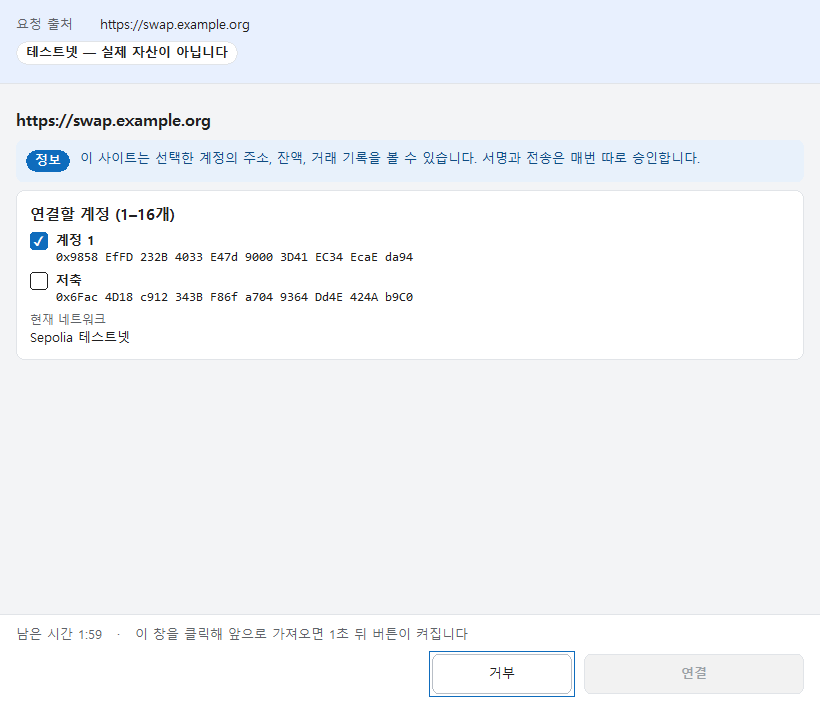
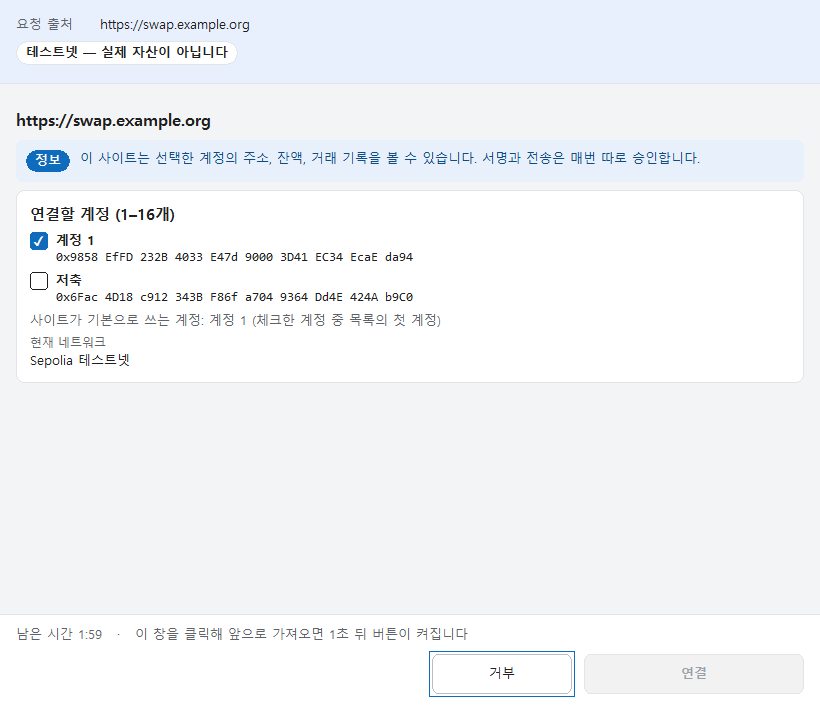
docs(ux): UX review 2026-11-08 and the screenshots of the changed screens
docs/ux-review-20261108.md merges the five persona reviews (47 proposals)
into 21 findings, lists what changed (before -> after) and what was left
with the reason and an alternative. The tour was re-run for the changed
screens only (01, 11, 13, 14, 17, 20, 23, 26-28, 30, 31, 34, 42, 44, 45,
50; new 35-yubikey-done) and their captions updated.

Changed region(s): [[0.0305, 0.4338, 0.5488, 0.5268]]

diff --git a/docs/screenshots/README.md b/docs/screenshots/README.md
@@ -1,6 +1,6 @@
-# 화면 투어 (2026-10-31 처음, 2026-11-07 UX 검토 반영 후 바뀐 장면을 다시 찍음)
+# 화면 투어 (2026-10-31 처음, 2026-11-08 UX 검토 반영 후 바뀐 장면을 다시 찍음)
 
-완성된 지갑의 주요 화면과 창입니다. `scripts/screenshot-tour.ps1`이 만듭니다(spec/04 §11, 개발 전용). 바뀐 점과 이유는 [UX 검토 11-07](../ux-review-20261107.md)(이전: [10-31](../ux-review-20261031.md), [10-28](../ux-review-20261028.md))에 있습니다.
+완성된 지갑의 주요 화면과 창입니다. `scripts/screenshot-tour.ps1`이 만듭니다(spec/04 §11, 개발 전용). 바뀐 점과 이유는 [UX 검토 11-08](../ux-review-20261108.md)(이전: [11-07](../ux-review-20261107.md), [10-31](../ux-review-20261031.md), [10-28](../ux-review-20261028.md))에 있습니다.
 
 - 모든 값은 시험용입니다. 버리는 임시 데이터 폴더만 쓰고 실제 지갑 폴더(`%LOCALAPPDATA%\YourWallet`)는 건드리지 않았습니다.
 - 새 지갑 만들기 화면의 단어는 누구나 아는 BIP39 **공개 시험 벡터**(엔트로피 0, 24단어)이고, 메인 화면은 공개 시험 니모닉(`abandon` × 11 + `about`) 지갑입니다. 이 단어들로 만든 지갑에 실제 자산을 두면 안 됩니다.
@@ -14,11 +14,12 @@
 - 2026-11-05(YubiKey): 등록 마법사·YubiKey 지갑을 더한 뒤 첫 화면(01, 카드가 넷이 되어 넷째 카드는 화면 밖), 설정 탭 줄에 `YubiKey`가 생긴 17·23을 다시 찍고 새로 35–43을 찍었습니다. YubiKey 장면은 실제 카드·키 작업자 없이 투어가 공개 시험 니모닉(`abandon` × 11 + `about`)에서 직접 계산한 미리보기·기록이고, 일련번호 `12345678`은 지어낸 값입니다. 비밀 창 40(W12)·43(W11)의 PIN은 공장 기본값입니다.
 - 2026-11-06(주소록·체인 배지): EVM 주소록을 모든 EVM 체인 공용으로 정리하고 ★ 즐겨찾기와 체인 배지(지갑이 직접 그린 단순 표식, 공식 로고 아님)를 더한 뒤 메인(10)·보내기(11, 받는 주소 위 `즐겨찾기` 칩)를 다시 찍고 새로 46(주소록)을 찍었습니다. 다른 장면의 탭·칩·제목에도 이제 배지가 붙지만 다시 찍지 않았습니다. 46의 `시험용 소각 주소`(0x…dEaD)와 `BIP173 예시 주소`(tb1qw508…)는 공개된 예시 주소입니다.
 - 2026-11-07(UX 검토): 상단 막대 `사이트·WalletConnect`(10·15·16), 승인 창 상태 줄의 무장 안내(12·21·22·26·27·28·30 — 투어 창은 앞에 있지 않아 "이 창을 클릭해 앞으로 가져오면 1초 뒤 버튼이 켜집니다"), 설정 구역 지도 줄(17·23·42; 17은 RPC 공급자가 첫 카드), WalletConnect 준비 카드(18·29), 용어 "복구 단어"(33·34·39), YubiKey 슬롯 주소 4자 묶음(38·41·42)으로 다시 찍고 새로 47–50을 찍었습니다. 48의 Zcash testnet 계정은 공개 시험 니모닉의 BIP44 testnet 첫 공개키(공개 시험 벡터)이고 RPC URL은 넣지 않았습니다. 49의 HyperCore 잔액은 네트워크에 연결하지 않아 "아직 불러오지 않았습니다"입니다.
+- 2026-11-08(UX 검토): 첫 화면 두 묶음(01), 보내기 자산 라디오의 보유량(11), 고위험 승인 창 상태 줄의 할 일(13), 받기에서 주소·`주소 복사`를 QR 앞으로(14·34), 설정 탭 아홉 개 한 줄·`브라우저·정보`(17·23·42·50), Solana 수수료 SOL 표기(20), 연결 창의 기본 계정 줄(26), 메시지 서명의 정보 줄을 "참고" 구역으로(27·28·30), 토큰 행 `USDC 보내기`(31), YubiKey 카드의 위험 작업 줄(42), 초기화 문구(44), Chrome 확장 5단계·호환 모드 안내(45)로 다시 찍었습니다. 35는 첫 화면 스크롤 장면 대신(이제 첫 화면에 다 보임) YubiKey 지갑을 만든 뒤의 완료 화면(S08)입니다. 나머지 장면은 이번 변경과 무관해 다시 넣지 않았습니다(이 PC의 투어에서 글꼴 다듬기 차이로 몇 장의 픽셀이 조금 달랐지만 화면 내용은 같습니다).
 - 화면 크기는 100%(96 DPI) 기준입니다. 비밀 창(03–05, 09)은 실제로는 화면 캡처에서 제외되며, 투어 프로세스가 직접 만든 창에 한해 캡처 직전에 제외를 풀었습니다.
 
 | 파일 | 설명 |
 |---|---|
-| [01-welcome.png](01-welcome.png) | 첫 화면 — 지갑이 무엇인지 세 문장으로 설명하고, 새로 만들지(복구 단어 24개), 복구 단어로 가져올지, 개인키 하나로 시작할지("개인키만 있습니다" → `개인키로 시작하기`, 복구 단어 없음) 고릅니다. 넷째 카드 "YubiKey에 키 보관"(35)은 화면 밖 아래입니다. |
+| [01-welcome.png](01-welcome.png) | 첫 화면 — 지갑이 무엇인지 두 문장과, 기본 창 첫 화면에 다섯 입구를 두 묶음으로: "새로 시작합니다"(`새 지갑 만들기` — 복구 단어 24개가 유일한 백업이라는 안내 —, `YubiKey에 보관하는 새 지갑`)와 "이미 쓰던 지갑이 있습니다"(`복구 단어로 가져오기`·`개인키로 시작하기`·`YubiKey 연결하기 (복구 단어 없이)`, 각각 한 줄 설명). |
 | [02-create-start.png](02-create-start.png) | 새 지갑 만들기 안내 — 1·2·3 단계 표시와 시작 전에 준비할 것. |
 | [03-create-password.png](03-create-password.png) | 1/3단계 비밀번호 정하기 — 입력은 가려지고 글자 수가 보입니다. |
 | [04-create-recovery-words.png](04-create-recovery-words.png) | 2/3단계 복구 단어 적기 — 24단어와 첫 주소, 2초 길게 눌러 다음으로. |
@@ -28,43 +29,43 @@
 | [08-locked.png](08-locked.png) | 잠금 화면 — 언제 자동으로 잠기는지 함께 보입니다. |
 | [09-unlock-password.png](09-unlock-password.png) | 잠금 해제 창 — 비밀번호 입력. |
 | [10-main-evm.png](10-main-evm.png) | 메인(EVM, Sepolia) — 상단 막대 `주소록`·`사이트·WalletConnect`·`설정`·`잠금 (Ctrl+L)`, 체인 탭 넷(EVM·Solana·Bitcoin·Zcash, Ctrl+1–4)과 네트워크 칩마다 체인 배지(Sepolia는 흐린 색 + "T"), 큰 잔액과 보내기·받기, 내 계정(계정이 둘이라 행마다 주소·잔액; 계정이 하나면 "주소와 잔액은 위 카드에 있습니다"). |
-| [11-send.png](11-send.png) | 보내기 — 제목 앞 체인 배지, 보내는 계정(링크 `다른 계정으로 바꾸기 (메인)`) / 받는 사람(받는 주소 위 `즐겨찾기` 칩 `★ 테스트 받는 사람 · 0xF278…1cdb`, 주소록 확인됨) / 금액, 예상 최대 수수료. |
+| [11-send.png](11-send.png) | 보내기 — 제목 앞 체인 배지, 테스트넷 띠(기본 메인넷이면 메인넷 띠), 보내는 계정(링크 `다른 계정으로 바꾸기 (메인)`) / 받는 사람(받는 주소 위 `즐겨찾기` 칩 `★ 테스트 받는 사람 · 0xF278…1cdb`, 주소록 확인됨) / 자산 라디오에 보유량(`USDC · 125.5`; 투어는 네트워크에 연결하지 않아 보내기 화면에서는 `잔액 모름`) / 금액, 예상 최대 수수료. |
 | [12-approval-simulated.png](12-approval-simulated.png) | 승인 창(시뮬레이션 성공) — 맨 위 한 문장 요약과 받는 주소 전체, 자산 변화, 핵심 정보. `승인`은 창이 앞에 나온 뒤 1초가 지나야 켜지므로 여기서는 회색이고, 상태 줄이 그 이유를 말합니다(창이 앞에 있으면 "잠시 뒤 버튼이 켜집니다 (실수 클릭을 막는 1초 대기)", 뒤에 있으면 "이 창을 클릭해 앞으로 가져오면 1초 뒤 버튼이 켜집니다"). |
-| [13-approval-no-simulation.png](13-approval-no-simulation.png) | 승인 창(시뮬레이션 결과 없음) — 고위험 띠, 확인 체크박스 1개, 2초 길게 누르기. |
-| [14-receive.png](14-receive.png) | 받기 — QR 종류 선택(`지갑 앱용 QR (네트워크 포함)` 기본 / `주소만 QR (거래소 앱용)`), QR, 4자씩 끊은 전체 주소, 주소 복사. 카드 아래(화면 밖)에 같은 주소가 다른 EVM 체인에서도 쓰인다는 안내가 있습니다. |
+| [13-approval-no-simulation.png](13-approval-no-simulation.png) | 승인 창(시뮬레이션 결과 없음) — 고위험 띠, 확인 체크박스 1개, 2초 길게 누르기. 상태 줄이 할 일을 말합니다: 체크 전 "경고를 읽고 아래 '위 경고를 모두 확인했습니다'에 체크하세요", 체크하고 버튼이 켜지면 "'승인'을 2초 동안 누르고 있으세요", 2초 전에 놓으면 "2초가 되기 전에 놓았습니다 — 다시 2초 동안 누르세요". |
+| [14-receive.png](14-receive.png) | 받기 — 제목 `받기 — Sepolia 테스트넷`(배지), 테스트넷 띠, 4자씩 끊은 전체 주소와 `주소 복사`가 QR보다 먼저(기본 창 첫 화면에서 주소 확인과 복사가 끝남), 같은 주소가 다른 EVM 체인에서도 쓰인다는 안내, QR 종류 선택(`지갑 앱용 QR (네트워크 포함)` 기본 / `주소만 QR (거래소 앱용)`), QR. |
 | [15-main-solana.png](15-main-solana.png) | 메인(Solana devnet) — 같은 배치, 주소 가운데 묶음 굵게. 큰 SOL 잔액 아래 허용 목록 토큰(USDC) 한 줄 요약(자세한 행은 아래 "토큰" 카드). "내 Solana 계정"에 '가져온 키' 계정은 복구 단어로 복구되지 않는다는 안내(아래 화면 밖에 `개인키 가져오기`). |
 | [16-main-bitcoin.png](16-main-bitcoin.png) | 메인(Bitcoin testnet4) — 다른 탭과 같은 순서: 네트워크 카드(주황 `BITCOIN TESTNET4 — 가치 없음` 배너 하나, 연결 상태, `새로고침`·`더 찾기`) → 선택 계정 카드(큰 사용 가능 잔액, `보내기`·`받기`) → "Bitcoin 계정" 목록(`네이티브 세그윗 계정 0`과 가져온 키 계정 `[가져온 키] tb1p8k…jq3hl5 · 탭루트 (tb1p…)`), 그 아래 선택 계정의 "주소 방식"(32), 화면 밖 아래에 `계정 추가`, 한 줄 안내와 `개인키 가져오기`(누르면 주소 형식 선택이 열림), 검증된 UTXO, 활동. |
-| [17-settings-rpc.png](17-settings-rpc.png) | 설정 → 네트워크(RPC) — 구역 탭 아래 지도 줄("이 구역: RPC 공급자 · 네트워크별 RPC 주소 · rpc.json 가져오기(개발용, 파일이 있을 때 맨 아래)"), 첫 카드 "RPC 공급자": RPC가 무엇인지, 입력 칸마다 어디서 찾는 값인지 설명. QuickNode 대시보드의 엔드포인트 주소 전체를 이름 칸이나 토큰 칸에 붙여넣어도 됩니다. |
+| [17-settings-rpc.png](17-settings-rpc.png) | 설정 → 네트워크(RPC) — 구역 탭 아홉 개가 한 줄(`보안`·`복구 단어`·`YubiKey`·`네트워크(RPC)`·`EVM 체인`·`Solana`·`Bitcoin`·`AI 설명`·`브라우저·정보`), 지도 줄, 첫 카드 "RPC 공급자": RPC가 무엇인지, 입력 칸마다 어디서 찾는 값인지 설명. QuickNode 대시보드의 엔드포인트 주소 전체를 이름 칸이나 토큰 칸에 붙여넣어도 됩니다. |
 | [18-sites.png](18-sites.png) | 연결된 사이트 · WalletConnect — 맨 위 "WalletConnect 연결 — 처음 한 번 준비"(Project ID가 없을 때: 1단계 Reown Project ID 저장, 2단계는 저장하면 연결 칸이 나타난다는 안내; 꺼진 연결 버튼은 없음), 그 아래 확장 연결의 개수 줄(`연결 EVM 2곳 · Solana 1곳 · Bitcoin 1곳`), 카드 제목 `origin · 계열`, 사이트마다 네트워크·연결 시각·볼 수 있는 계정과 `연결 해제`. |
 | [19-extension-popup.png](19-extension-popup.png) | 크롬 확장 팝업 — 앱 연결 상태, "EVM (이더리움 등) dApp에 보이는 지갑"(MetaMask처럼 보이기 선택 → 그 계열의 실제 확장을 끄라는 경고), Solana·Bitcoin 공통 안내 한 줄, Solana·Bitcoin 카드(둘 다 기본/사용 안 함 → 경고 없음). 실제 Chrome 대신 미리보기 페이지로 찍었고, 전체가 보이도록 340×1160입니다(실제 팝업은 600px 높이에서 스크롤). |
-| [20-send-solana-usdc.png](20-send-solana-usdc.png) | Solana 보내기(v1.1) — `자산` 라디오에서 USDC를 고른 모습. 받는 사람은 지갑 주소(토큰 계정 주소가 아님)라는 안내와 보유 잔액·mint. |
+| [20-send-solana-usdc.png](20-send-solana-usdc.png) | Solana 보내기(v1.1) — `자산` 라디오에서 USDC를 고른 모습. 받는 사람은 지갑 주소(토큰 계정 주소가 아님)라는 안내와 보유 잔액·mint, 수수료는 SOL로 "예상 수수료 약 0.000005 SOL (최대 … SOL) — 최종 수수료는 승인 창에서 확인합니다"(lamports·CU 계산은 `수수료 계산 보기 ▸` 안). |
 | [21-approval-solana-usdc.png](21-approval-solana-usdc.png) | Solana 토큰 승인 창(devnet USDC) — 요약 문장과 받는 지갑 주소, 금액·mint·토큰 프로그램·보내는·받는 토큰 계정(ATA) 전체, 받는 토큰 계정이 없어 만드는 비용(rent)을 보내는 쪽이 낸다는 안내. 고정 응답으로 준비했고 서명하지 않았습니다. |
 | [22-approval-ai-explain.png](22-approval-ai-explain.png) | 승인 창 + AI 설명(M6, 선택 기능) — dApp(`https://app.example.org`)의 0.01 SepoliaETH 보내기. 코어 표시(요약·자산 변화·경고·핵심 정보)는 그대로이고, 버튼 바로 위 별도 보라색 패널 "AI 설명 (참고용, 틀릴 수 있음)"에 검증을 통과한 설명·지갑이 다시 만든 동작 줄(`보냄 · SepoliaETH 0.01 · 보낸 주소 → 받는 주소`)·AI가 판단하지 못한 것·`호스트 · 모델 · 경과 초`가 보입니다. 패널 높이는 창을 열 때 미리 확보하므로 설명이 와도 버튼 위치가 바뀌지 않고, `승인`은 AI 결과와 무관합니다(창이 앞에 나온 뒤 1초가 지나야 켜지므로 여기서는 회색). |
 | [23-settings-ai.png](23-settings-ai.png) | 설정 → AI 설명 — 기본 꺼짐, 켤 때 전송 내용 고지·동의, OpenAI 호환 엔드포인트(https 또는 이 PC의 로컬 http만)·모델·응답 형식·max_tokens, `연결 테스트`(지어낸 표본 요청 `0x…dEaD`로 형식만 확인) 성공 결과. 아래(화면 밖)에 API 키 카드(저장된 값은 다시 보이지 않음)가 있습니다. |
 | [24-key-start-bitcoin.png](24-key-start-bitcoin.png) | 개인키로 시작하기(S18) — 체인 `Bitcoin`, 주소 형식 라디오(쉬운 이름 먼저: `네이티브 세그윗 (bc1q…, P2WPKH)`·`탭루트 (bc1p…, P2TR)` 선택·`호환 세그윗 (3…, P2SH-P2WPKH)`·`레거시 (1…, P2PKH)`), 형식 고르기 안내, "이 지갑의 백업"(원래 개인키가 유일한 백업) 주의 띠. 다음은 비밀번호(W01) → 개인키 입력(W07) → 주소 확인(S19). |
 | [25-bitcoin-account-types.png](25-bitcoin-account-types.png) | Bitcoin `계정 추가` — 형식 고르기 도움말, "키 출처" 라디오(기본값 `BTC 표준 경로 (권장, 기본값)` 선택, 그 경로 `m/{44·49·84·86}'/{코인}'/{계정}'/0/0`과 다른 Bitcoin 지갑에서도 같은 주소가 나온다는 안내 / `EVM 계정과 같은 키`), 주소 형식 선택지(testnet4: `네이티브 세그윗 (tb1q…, 권장)`·`탭루트 (tb1p…)`·`호환 세그윗 (2…)`·`레거시 (m·n…)`)와 `취소`. 위쪽에 계정 목록과 선택 계정의 주소 방식, 아래에 접힌 `개인키 가져오기` 줄. 새 계정은 고정 주소 모드로 만들어집니다. |
-| [26-approval-connect.png](26-approval-connect.png) | 사이트 연결 창(EVM `eth_requestAccounts`, 새 사이트 `https://swap.example.org`) — 요청 출처, 볼 수 있는 것 안내, 연결할 계정 체크(1–16개)와 현재 네트워크. `연결`은 창이 앞에 나온 뒤 1초가 지나야 켜지므로 여기서는 회색입니다. |
-| [27-approval-sol-message.png](27-approval-sol-message.png) | Solana 메시지 서명 창(`sol_signMessage`, 연결된 `https://app.example.org`) — 요약 "메시지에 서명해 이 주소의 소유를 증명합니다. 거래 서명이나 전송은 하지 않습니다.", 정보 띠(소유 증명용), 핵심 정보에 메시지 텍스트 전체. 자산 변화 카드는 없습니다(메시지 서명). |
-| [28-approval-sol-signin.png](28-approval-sol-signin.png) | 같은 사이트의 Sign-In-With-Solana 창(`sol_signIn`) — 제목 "로그인 요청 (SIWS)", 정보 띠 둘(소유 증명용, 로그인 요청), 앱이 dApp 필드로 만든 SIWS 텍스트(줄바꿈은 `[U+000A]` 표지와 함께 보임), 아래로 SIWS 필드(도메인·주소·설명·URI·버전·Chain ID·Nonce). 27번 창을 거부한 바로 뒤의 요청입니다. |
+| [26-approval-connect.png](26-approval-connect.png) | 사이트 연결 창(EVM `eth_requestAccounts`, 새 사이트 `https://swap.example.org`) — 요청 출처, 볼 수 있는 것 안내, 연결할 계정 체크(1–16개; 새 사이트는 메인에서 고른 계정이 기본 체크)와 "사이트가 기본으로 쓰는 계정: 계정 1 (체크한 계정 중 목록의 첫 계정)", 현재 네트워크. `연결`은 창이 앞에 나온 뒤 1초가 지나야 켜지므로 여기서는 회색입니다. |
+| [27-approval-sol-message.png](27-approval-sol-message.png) | Solana 메시지 서명 창(`sol_signMessage`, 연결된 `https://app.example.org`) — 요약 "메시지에 서명해 이 주소의 소유를 증명합니다. 거래 서명이나 전송은 하지 않습니다.", 정보 줄(소유 증명용)은 "확인할 경고"가 아니라 "참고" 구역에, 핵심 정보에 메시지 텍스트 전체. 자산 변화 카드는 없습니다(메시지 서명). |
+| [28-approval-sol-signin.png](28-approval-sol-signin.png) | 같은 사이트의 Sign-In-With-Solana 창(`sol_signIn`) — 제목 "로그인 요청 (SIWS)", 정보 줄 둘(소유 증명용, 로그인 요청)은 "참고" 구역, 앱이 dApp 필드로 만든 SIWS 텍스트(줄바꿈은 `[U+000A]` 표지와 함께 보임), 아래로 SIWS 필드(도메인·주소·설명·URI·버전·Chain ID·Nonce). 27번 창을 거부한 바로 뒤의 요청입니다. |
 | [29-sites-solana-bitcoin.png](29-sites-solana-bitcoin.png) | 연결된 사이트(아래로 스크롤) — 같은 사이트의 Solana 연결(계정 라벨 `Solana 1`과 공개키)과 Bitcoin testnet4 연결(결제용 네이티브 세그윗 주소 — 계정 0의 고정 받기 주소 `…/0/0`과 같음 —, 오디널스용 탭루트 주소), 계열마다 `연결 해제`. |
-| [30-approval-btc-message.png](30-approval-btc-message.png) | Bitcoin 메시지 서명 창(`btc_signMessage`, 같은 사이트, Solana 창을 거부한 바로 뒤) — testnet4 주황 띠, 서명 계정(네이티브 세그윗 계정 0, 경로 `m/84'/1'/0'/0/0`, 전체 주소 — 받기 화면 34와 같은 주소), 요약 "메시지에 서명해 이 주소의 소유를 증명합니다", 정보 띠(소유 증명용), 핵심 정보에 서명 방식 `BIP137 ECDSA (Bitcoin Signed Message)`와 메시지 텍스트. |
-| [31-main-evm-tokens.png](31-main-evm-tokens.png) | 메인(EVM) "토큰" 카드(아래로 스크롤) — 보이는 행(USDC 125.5)마다 `숨기기`, 체크 `잔액 0인 토큰 숨기기`(켬: 잔액 0인 WETH를 감췄다는 도움말), `숨긴 토큰 1개 접기 ▾`로 펼친 숨긴 토큰(원치 않는 에어드롭처럼 직접 숨긴 사용자 토큰 `FREE-AIRDROP`, 흐리게, 컨트랙트 전체, `다시 보이기`·`삭제`), `토큰 추가`. 숨기기는 표시 전용이라 승인 창의 토큰 확인과 활동 기록은 그대로라는 안내가 함께 보입니다. |
+| [30-approval-btc-message.png](30-approval-btc-message.png) | Bitcoin 메시지 서명 창(`btc_signMessage`, 같은 사이트, Solana 창을 거부한 바로 뒤) — testnet4 주황 띠, 서명 계정(네이티브 세그윗 계정 0, 경로 `m/84'/1'/0'/0/0`, 전체 주소 — 받기 화면 34와 같은 주소), 요약 "메시지에 서명해 이 주소의 소유를 증명합니다", 정보 줄(소유 증명용)은 "참고" 구역, 핵심 정보에 서명 방식 `BIP137 ECDSA (Bitcoin Signed Message)`와 메시지 텍스트. |
+| [31-main-evm-tokens.png](31-main-evm-tokens.png) | 메인(EVM) "토큰" 카드(아래로 스크롤) — 보이는 행(USDC 125.5)마다 `USDC 보내기`(그 토큰을 고른 보내기 화면)·`숨기기`, 체크 `잔액 0인 토큰 숨기기`(켬: 잔액 0인 WETH를 감췄다는 도움말), `숨긴 토큰 1개 접기 ▾`로 펼친 숨긴 토큰(원치 않는 에어드롭처럼 직접 숨긴 사용자 토큰 `FREE-AIRDROP`, 흐리게, 컨트랙트 전체, `다시 보이기`·`삭제`), `토큰 추가`. 숨기기는 표시 전용이라 승인 창의 토큰 확인과 활동 기록은 그대로라는 안내가 함께 보입니다. |
 | [32-bitcoin-address-mode.png](32-bitcoin-address-mode.png) | Bitcoin 계정 카드(아래로 스크롤) — 계정 목록 아래 선택 계정의 "주소 방식 — 네이티브 세그윗 계정 0": `고정 주소 하나만 사용 (UniSat·Xverse 방식)`(기본값, 선택됨) / `받을 때마다 새 주소 (HD, 프라이버시↑)`와 한 줄 장단점(고정 주소는 받기·잔돈이 늘 `…/0/0`이라 관리·소유 증명이 쉽지만 그 주소의 잔액과 거래가 모두 보임). 가져온 키 계정에는 이 선택이 없습니다(주소가 하나). |
 | [33-bitcoin-evm-key-choice.png](33-bitcoin-evm-key-choice.png) | `계정 추가`에서 `EVM 계정과 같은 키`를 직접 고른 모습 — 주의 띠(같은 키라 EVM 주소와 BTC 주소의 공개키가 같아져 누구나 같은 사람 것임을 알 수 있고, 다른 BTC 지갑에 복구 단어만 넣으면 이 주소가 보이지 않음 — 복구는 이 지갑이나 개인키 내보내기로), EVM 계정 라디오(라벨·주소·`m/44'/60'/0'/0/i`), 주소 형식 버튼. 형식을 누르면 확인 창이 한 번 더 열립니다. |
-| [34-receive-bitcoin.png](34-receive-bitcoin.png) | Bitcoin 받기(S12, 고정 주소 모드) — 카드 제목 `네이티브 세그윗 계정 0 · 고정 주소`, 주소 형식, 정보 띠 "이 계정은 주소 하나만 씁니다. 같은 복구 단어를 Electrum/Sparrow/UniSat에 넣으면 같은 주소가 나옵니다.", QR, 4자씩 끊은 주소(BIP84 시험 벡터 첫 주소 `tb1q6rz2…cpvkl`), 경로 `m/84'/1'/0'/0/0`, `주소 복사`(새 주소 버튼 없음). 화면 밖 아래에 받은 돈과 잔돈이 모두 이 주소로 온다는 안내. |
-| [35-welcome-yubikey.png](35-welcome-yubikey.png) | 첫 화면(아래로 스크롤) — 넷째 카드 "YubiKey에 키 보관": 새 복구 단어 24개를 만들어 종이에 적고 그 키를 YubiKey에 넣으며, 이 PC에는 복구 단어를 저장하지 않고 공개키·주소만 둔다는 설명, 필요한 것(YubiKey 5, 펌웨어), `YubiKey 지갑 만들기`. |
+| [34-receive-bitcoin.png](34-receive-bitcoin.png) | Bitcoin 받기(S12, 고정 주소 모드) — 카드 제목 `네이티브 세그윗 계정 0 · 고정 주소`, 주소 형식, 정보 띠 "이 계정은 주소 하나만 씁니다…", 4자씩 끊은 주소(BIP84 시험 벡터 첫 주소 `tb1q6rz2…cpvkl`)와 `주소 복사`(새 주소 버튼 없음), 받은 돈과 잔돈이 모두 이 주소로 온다는 안내, 그 아래 QR과 경로 `m/84'/1'/0'/0/0`. |
+| [35-yubikey-done.png](35-yubikey-done.png) | YubiKey 지갑을 만든 뒤의 완료 화면(S08) — 다른 첫 실행 갈래처럼 완료 띠 "YubiKey 지갑을 만들었습니다 (YubiKey #12345678).", 백업은 방금 적은 복구 단어 24개라는 안내, `지갑 열기`(RPC 주소가 없으면 "마지막 단계: 블록체인 연결(RPC)" 카드), Chrome 확장 설치 링크. 복구 단어 없이 연결했으면 "YubiKey를 연결했습니다…"와 카드가 유일한 사본일 수 있다는 안내. 일련번호는 지어낸 값입니다. |
 | [36-yubikey-wallet-start.png](36-yubikey-wallet-start.png) | YubiKey 지갑 만들기(S20) — 만들기와 같은 세 단계 표시, "시작하기 전에" 네 줄(단어는 한 번 보이고 PC에 저장하지 않음, 4단어 확인 뒤 키를 고르고 가져옴, 같은 단어로 백업 YubiKey 바로 등록), 주의 띠. 다음은 비밀번호(W01) → 새 단어(W08) → 백업 확인(W10) → 등록 마법사. |
 | [37-yubikey-slots.png](37-yubikey-slots.png) | YubiKey 등록 1/4 키·슬롯 — OpenPGP 서명(SIG)·인증(AUT)마다 넣을 키(`없음`·`EVM 계정`·`Bitcoin 주소`·`EVM 공유 키`), 인덱스, Bitcoin 주소 형식(현재 네트워크 testnet4), 터치(`항상` 기본·`15초 유지`·`항상(고정)`·`15초 유지(고정)`), 경로 미리보기. 첫 YubiKey 기본값 SIG = EVM 0, AUT = Bitcoin P2WPKH 0. 화면 밖 아래에 PIV(Solana 계정 수·첫 인덱스·터치·펌웨어 안내)와 `다음 (복구 단어 입력)`. |
 | [38-yubikey-confirm.png](38-yubikey-confirm.png) | 2/4 확인 — 카드와 통신하기 전, 입력한 복구 단어에서 계산한 슬롯별 경로(`m/44'/60'/0'/0/0`·`m/84'/1'/0'/0/0`·`m/44'/501'/0'/0'`)와 주소(EVM 체크섬, testnet4 `tb1q6rz2…cpvkl`, Solana `HAgk14…KpqK`), 정책, 다른 YubiKey와의 관계(`새 키`), PIV 펌웨어 안내. 이 vault의 복구 단어였다면 위에 고위험 띠와 확인란이 나오고, 같은 경로가 다른 YubiKey에 있으면 위험 띠로 `다음`이 꺼집니다. |
 | [39-yubikey-credentials.png](39-yubikey-credentials.png) | 3/4 자격 정보 — YubiKey 하나만 연결, OpenPGP 관리자 PIN은 다음 창에서(기본 12345678), PIV 관리 키 `기본 관리 키 사용`/`관리 키 직접 입력 (16진수 48자리)`, 슬롯의 기존 키가 바뀐다는 주의 띠, `가져오기`·`가져오기 없이 등록`(이미 키가 있는 YubiKey는 공개키만 읽음)·`← 이전`·`취소`. |
 | [40-yubikey-admin-pin.png](40-yubikey-admin-pin.png) | W12 "YubiKey 관리자 PIN" — 가린 칸 하나(8–127자), `보기`, 한 번만 쓰고 지운다는 안내. 관리 키를 직접 입력하면 같은 모양의 창이 16진수 48자리를 받고, PIN·PUK 바꾸기는 현재·새·새 확인 세 칸입니다. |
 | [41-yubikey-result.png](41-yubikey-result.png) | 4/4 결과 — 완료 띠, YubiKey 일련번호·펌웨어와 다시 읽은 슬롯별 경로·주소·정책, `다시 확인` 결과(슬롯마다 "공개키가 기록과 같습니다 ✓"). 화면 밖 아래에 공장 기본값 안내와 `OpenPGP PIN 바꾸기`·`OpenPGP 관리자 PIN 바꾸기`·`PIV PIN 바꾸기`·`PIV PUK 바꾸기`·`PIV 관리 키 바꾸기`, `완료`·`다른 YubiKey 등록(백업)`. |
-| [42-settings-yubikey.png](42-settings-yubikey.png) | 설정 → YubiKey — 지도 줄(등록·PIN 설정·슬롯 구성 바꾸기·비우기, 서명할 때는 승인 뒤 PIN 창이 저절로 열림), 무엇인지 한 문단, 니모닉 지갑이면 같은 단어로 등록하면 보안 이득이 없다는 안내, `YubiKey 등록`, 카드마다 펌웨어·슬롯·경로·주소(4자 묶음)·정책(아래에 기본값 안내 띠와 `삭제`), 화면 밖에 "계정별 YubiKey"(계정마다 그 키를 가진 일련번호·슬롯, 둘째부터 "(백업)"). |
+| [42-settings-yubikey.png](42-settings-yubikey.png) | 설정 → YubiKey — 지도 줄(등록·PIN 설정·슬롯 구성 바꾸기·비우기, 서명할 때는 승인 뒤 PIN 창이 저절로 열림), 무엇인지 한 문단, 니모닉 지갑이면 같은 단어로 등록하면 보안 이득이 없다는 안내, `YubiKey 등록`, 카드마다 펌웨어·슬롯·경로·주소(4자 묶음)·정책, 그 아래(화면 밖) 일반 작업 줄(`PIN 설정 / 기본값 변경`·`슬롯 구성 바꾸기`)과 "위험한 작업" 줄(`지갑에서 기록 지우기 (카드는 그대로)`·`YubiKey의 키 지우기…`), "계정별 YubiKey". |
 | [43-yubikey-card-pin.png](43-yubikey-card-pin.png) | W11 "YubiKey PIN" — 승인 뒤 카드 단계: 연결·PIN·터치 안내, 서명할 키(역할·경로)와 이 키를 가진 YubiKey 일련번호, 가린 PIN 칸(OpenPGP 6–127자). 승인 창 헤더에는 "YubiKey로 서명 · #… · 터치 N회" 배지가 붙습니다. |
-| [44-wallet-reset.png](44-wallet-reset.png) | 지갑 초기화(S22, 잠금 화면의 `지갑 초기화…`에서) — 고위험 띠(자산은 블록체인에 그대로, 다시 쓰려면 복구 단어·원래 개인키), 잠금 해제 없이 파일만 옮긴다는 문장, 옮길 곳 `v3\reset-<날짜시각(UTC)>`와 옮길 파일 목록(시험용), YubiKey 안의 키는 그대로라는 안내, 설정·API 키는 기본으로 둔다는 안내와 `설정과 API 키도 함께 옮기기`, 확인 문구 `초기화`를 넣은 칸과 2초 동안 누르는 빨간 영역, `취소`. |
-| [45-chrome-extension.png](45-chrome-extension.png) | Chrome 확장 설치(S23, 설정 → 브라우저·정보 → `Chrome 확장 설치 방법·폴더`) — 연결 상태, 설치 네 단계와 업데이트 뒤 새로고침 안내, 확장 폴더 경로(개발 빌드라 저장소의 `extension`), `폴더 열기`·`경로 복사`·`chrome://extensions 주소 복사`. |
+| [44-wallet-reset.png](44-wallet-reset.png) | 지갑 초기화(S22, 잠금 화면의 `지갑 초기화…`에서) — 고위험 띠(자산은 블록체인에 그대로, 다시 쓰려면 복구 단어 — 여러 개면 각각 — 또는 원래 개인키, YubiKey의 키는 'YubiKey 연결하기 (복구 단어 없이)'로 다시 연결), 잠금 해제 없이 파일만 옮긴다는 문장, 옮길 곳 `v3\reset-<날짜시각(UTC)>`와 옮길 파일 목록(시험용), YubiKey 안의 키는 그대로라는 안내, 설정·API 키는 기본으로 둔다는 안내와 `설정과 API 키도 함께 옮기기`, 확인 문구 `초기화`를 넣은 칸과 2초 동안 누르는 빨간 영역, `취소`. |
+| [45-chrome-extension.png](45-chrome-extension.png) | Chrome 확장 설치(S23, 설정 → 브라우저·정보 → `Chrome 확장 설치 방법·폴더`) — 연결 상태, 설치 다섯 단계(5. 툴바 아이콘에서 '연결됨' 확인), 지갑 목록에 Your Wallet이 없는 dApp이면 'MetaMask처럼 보이기'(Solana는 'Phantom처럼', Bitcoin은 'UniSat'·'Xverse처럼')를 고르라는 안내, 업데이트 뒤 새로고침 안내, 확장 폴더 경로(개발 빌드라 저장소의 `extension`), `폴더 열기`·`경로 복사`·`chrome://extensions 주소 복사`. |
 | [46-address-book.png](46-address-book.png) | 주소록(S14) — "주소 추가" 카드(계열 탭 `EVM`·`Solana`·`Bitcoin`과 계열 공유 안내: EVM 주소 하나는 모든 EVM 체인 공용, Solana는 mainnet·devnet 공용, Bitcoin은 그 네트워크에만), 주소·이름, 확인 체크, `★ 즐겨찾기` 체크, `추가`. 아래 `EVM 주소록 — 모든 EVM 체인 공용 (2개)`: ★ 즐겨찾기가 먼저, 행마다 `★ 즐겨찾기 해제`/`☆ 즐겨찾기`·`편집`·`삭제`. 화면 밖 아래에 Solana·Bitcoin 주소록 카드. |
 | [47-main-zcash-off.png](47-main-zcash-off.png) | Zcash 탭(꺼짐) — 카드 "Zcash (일반 주소 전용)": 일반(transparent) 주소로 받고 보내며 비공개 전송은 없다는 한 줄, 켜면 쓰는 경로와 먼저 설정 → 네트워크(RPC)에 Zcash 주소를 넣으라는 안내, Zcash mainnet 켜기·Zcash testnet 켜기 (테스트)(Zcash URL이 하나도 없으면 링크 RPC 설정하기도). Ctrl+4로도 엽니다. |
 | [48-main-zcash.png](48-main-zcash.png) | Zcash 탭(testnet 켜짐, URL 없음) — 네트워크 카드 안에 배지 붙은 mainnet·testnet 칩과 ZCASH TESTNET — 가치 없음 띠, 상태 줄 "엔드포인트 없음 (E-KEY-005) — 설정 → 네트워크(RPC)에서 Zcash 주소를 넣으세요"와 링크 RPC 설정하기(같은 내용의 빨간 띠는 따로 없음), UTXO 원천, 계정(키 출처 Zcash 표준 경로 · m/44'/1'/0'/0/0), 받기(4자 묶음 	m… 주소, 일반 주소 안내). 계정 공개키는 공개 시험 니모닉의 BIP44 testnet 시험 벡터입니다. |
 | [49-main-evm-hypercore.png](49-main-evm-hypercore.png) | 메인(EVM) HyperCore 카드(아래로 스크롤) — 제목 앞 Hyperliquid 배지, 빨간 띠 "HyperCore 메인넷: 실제 자산"(카드의 네트워크는 위 EVM 체인과 따로 — 여기서는 EVM이 Sepolia), 네트워크 라디오, 같은 EVM 주소의 잔액(연결하지 않아 아직 불러오지 않음), 보내기(Core)·현물↔선물 이동·Arbitrum으로 출금·HyperEVM으로 이동·HyperEVM에서 Core로 이동·새로고침. |
-| [50-settings-browser.png](50-settings-browser.png) | 설정 → 브라우저·정보 — 지도 줄(Chrome 확장 · WalletConnect · 브라우저 연결 · 진단 · 버전·데이터 폴더·단축키, Zcash는 Zcash 탭에서 켬), "브라우저 확장"(연결 상태, Chrome 확장 설치 방법·폴더), "WalletConnect"(확장 없이 QR·링크로 연결, 상태 Project ID 없음 — 꺼져 있음, 연결된 사이트 · WalletConnect 열기), "브라우저 연결"(자동 실행, localhost). |
+| [50-settings-browser.png](50-settings-browser.png) | 설정 → 브라우저·정보 — 탭 아홉 개 한 줄, 지도 줄, "브라우저 확장"(연결 상태, 호환 모드 한 줄 안내, `Chrome 확장 설치 방법·폴더`), "WalletConnect"(확장 없이 QR·링크로 연결, 상태 `Project ID 없음 — 꺼져 있음`, `연결된 사이트 · WalletConnect 열기`), "브라우저 연결"(자동 실행, localhost). |

diff --git a/docs/ux-review-20261108.md b/docs/ux-review-20261108.md
@@ -1,0 +1,85 @@
+# UI/UX 검토 — 2026-11-08
+
+대상: main 77a4707(보안 수정 병합 뒤) — 11-07 검토 뒤에 들어온 기능(복구 단어 여러 개 D37, YubiKey 연결(복구 단어 없이)·PIN 상태 초기화, 추가 복구 단어의 Solana·Bitcoin·Zcash 계정, 설정 보안 스냅샷 등)이 모두 있는 상태. 기준 사용자는 지난 검토와 같이 "지갑을 혼자 쓰는, 전문가는 아닌 주인 한 명"이고, 이번에는 다섯 사람의 눈으로 나눠 봤다: (1) 처음 쓰는 주인(설치 → 첫 실행 → 백업 확인 → RPC → 확장 → 첫 입금), (2) 매일 쓰는 주인(여러 체인·계정·토큰, 받기·보내기), (3) dApp 사용자(확장 팝업, 연결 창, 승인 창, WalletConnect), (4) 보안을 중시하는 YubiKey 사용자(복구 단어 없는 지갑, 카드 1–2장, PIN, 초기화), (5) 파워·유지보수 사용자(설정 구성, RPC, 변조 띠, 키보드, DPI). 이전 검토: [11-07](ux-review-20261107.md), [10-31](ux-review-20261031.md), [10-28](ux-review-20261028.md).
+
+방법: 다섯 검토가 화면 투어(`ui::tour::screenshot_tour`, 버리는 임시 데이터 폴더)와 UI 코드(`crates/yw-app/src/ui/*`, `app*.rs`)·spec/04·이전 검토를 대조해 낸 제안 47건을 하나로 합쳐(겹치는 제안: 창 크기 기억 2건, 설정 탭 넘침 2건, `RPC 설정하기` 문구 3건, 복구 단어 라벨 2건 등) 영향 순으로 정리했다. 영향 높음 + 작거나 중간 노력인 것부터 고쳤고, 보안 관련 항목은 보안 동작(승인 무장 지연, 2초 누르기, 캡처 제외, 복사 규칙, 위험 등급·차단, PIN 규칙, 확인 창)을 그대로 둘 때만 고쳤다. 고친 화면만 투어를 다시 찍었다.
+
+원칙(바꾸지 않음): 승인 무장 지연(창이 앞에 나온 뒤 1초, 모든 누름 계산), 고위험 체크 1개 + 2초 누르기, 비밀 창 캡처 제외, 복사 규칙, 위험 등급과 차단, digest에 묶인 표시, PIN 규칙(작업 사이 캐시 없음, 공장 PIN 미전송), 파괴적 동작의 확인 창, 주소를 줄이지 않는 규칙, §7 오류 문구. 이번 변경은 위험 표시를 **더하기만** 했다(메인넷 띠, 백업 전 띠, 확인 창 2개).
+
+## 1. 결과 요약 (사용자 영향 순)
+
+| # | 영향 | 문제 | 상태 | 화면 |
+|---|---|---|---|---|
+| U1 | 높음 | **백업 확인을 틀리면 새 위치를 물었다.** 종이에 단어 하나를 잘못 적어도 다음 질문이 그 위치를 비켜 가면 "확인됨"으로 남았고, 틀린 뒤 무엇을 할지 말하지 않았다. | 고침 | W10 |
+| U2 | 높음 | **숨긴 계정을 되돌릴 방법이 없었다.** `숨기기`는 확인 없이 meta `hidden`만 바꾸는데, 다시 보이는 화면이 없고 `계정 추가`는 최대 인덱스 + 1이라 되살리지 못했다(잔액 있는 계정이 사라진 것처럼 보임). | 고침 | S10 EVM·Solana |
+| U3 | 높음 | **YubiKey 지갑만 완료 화면(S08)을 건너뛰었다.** RPC 카드·확장 링크 없이 "엔드포인트 없음" 메인으로 떨어졌다. | 고침 | S21 → S08 (35) |
+| U4 | 높음 | **EVM 토큰 보내기에서 보유량이 안 보였다.** 자산 라디오는 기호뿐, 토큰 행에는 보내기 링크가 없었다(Solana 탭에는 있음). | 고침 | 10, 11, 31 |
+| U5 | 높음 | **고위험 승인 창의 상태 줄이 할 일을 말하지 않았다.** "경고를 확인하고 체크한 뒤…" 문구는 남은 시간이 늘 있어 한 번도 보이지 않았고, 2초 전에 놓으면 조용히 다시 시작했다. | 고침(표시만) | 13, 26 |
+| U6 | 높음 | **설정 변조 띠가 JSON 키 이름만 보였다.** 두 버튼이 같은 모양이고 `파일 값 사용`은 확인 없이 모든 파일 값(제네시스 미고정 체인, 더 높은 수수료 상한, 다른 주소 조회 서버, 더 긴 자동 잠금)을 받아들였다. | 고침(강화) | 모든 화면 머리 |
+| U7 | 높음 | **백업 확인 전 추가 복구 단어의 계정은 서명할 때에야 거부됐다**(E-VLT-009 — 보내기 폼·승인을 다 마친 뒤). | 고침(띠·버튼) | S10, S12 |
+| U8 | 높음 | **설정 → 보안의 "복구 단어는 지갑 전체의 백업"이 D37 뒤로 틀린 말**(추가 복구 단어·가져온 키·복구 단어 없는 YubiKey 키). 초기화 문구도 복구 단어 없이 연결하는 길을 몰랐다. | 고침 | 설정 → 보안, 44 |
+| U9 | 높음 | **연결 창 기본 선택이 늘 계정 0**이고, 어느 계정이 사이트의 기본 계정인지 말하지 않았다. | 고침(a) | 26 |
+| U10 | 중간 | **받기 화면의 `주소 복사`가 큰 QR 아래**라 기본 창에서 화면 끝이나 밖이었다. 제목 형식이 체인마다 달랐고 EVM·Solana 보내기·받기에는 메인넷 띠가 없었다. | 고침 | 14, 34 |
+| U11 | 중간 | **EVM 활동 행에 받는 사람이 없었다**(해시로만 구분), 50건이 한꺼번에 펼쳐졌고, 받은 입금이 왜 없는지 말하지 않았다. | 고침(EVM) | S10 활동 |
+| U12 | 중간 | **정보 줄만 있는 창도 "확인할 경고"** 제목(메시지 서명 M04, SIWE S09) — 경고 피로. | 고침(표시만) | 27, 28, 30 |
+| U13 | 중간 | **서명 요약이 무엇에 서명하는지 말하지 않았다**(SIWE·permit·Permit2·Seaport 모두 고정 문장). | 고침 | A01 EVM |
+| U14 | 중간 | **WalletConnect 연결이 두 갈래 버튼**(붙여 넣기 → 연결 / 클립보드 이미지 QR)이고 이미지 파일 경로 칸이 늘 펼쳐져 있었다. `모든 WalletConnect 세션 끊기`에 확인이 없었다. | 고침 | 18(Project ID 있을 때) |
+| U15 | 중간 | **호환 모드(MetaMask처럼 보이기 등)를 앱 안에서 찾을 수 없었다.** 확장 설치 안내에 "연결됨" 확인 단계가 없었다. | 고침 | 45, 50, S13 빈 상태 |
+| U16 | 중간 | **첫 화면 카드 4개를 세로로 늘어놓아** `YubiKey 연결하기 (복구 단어 없이)`가 스크롤 맨 아래였고, 머리 문장 "복구 단어 24개가 유일한 백업"이 개인키·YubiKey 갈래와 맞지 않았다. | 고침 | 01 |
+| U17 | 중간 | **RPC 없음 상태가 연결 문제처럼 들렸다**("RPC 연결을 확인하고 새로고침"), `새로고침`은 E-KEY-005만 냈고 링크 이름이 탭마다 달랐다(`RPC 설정하기`/`설정에서 URL 입력`). | 고침(일부) | S10 |
+| U18 | 낮음 | **설정 탭 9개가 두 줄로 넘쳤다**(`브라우저·진단·정보`만 둘째 줄), 키·백업 탭이 양 끝에 흩어져 있었다. | 고침 | 17, 23, 42, 50 |
+| U19 | 중간 | **YubiKey 카드의 빨간 버튼 둘(`삭제`·`YubiKey 비우기`)이 무엇을 지우는지 이름으로 알 수 없었다**, 마지막 키라 꺼진 이유가 없었고, 복구 단어 없이 연결한 키에도 "같은 복구 단어로 다시 등록하면 돌아옵니다"라고 했다. | 고침 | 42 |
+| U20 | 낮음 | **추가 복구 단어의 기본 이름 "니모닉 N"**, 첫 복구 단어 사실 줄이 사실과 다름, 미리보기 주소가 묶이지 않음. | 고침 | 설정 → 복구 단어 |
+| U21 | 낮음 | **Solana 보내기 수수료가 lamports·CU로만** 보였다. | 고침 | 20 |
+
+좋았던 점(바꾸지 않음): 받기 1클릭·보내기 3클릭 + 승인, 체인 탭 Ctrl+1–4, 확장 연결은 사이트에서 1 + 연결 창, 승인 창의 출처 → 요약 → 위험 띠 → 자산 변화 → 핵심 정보 순서가 체인마다 같다. 11-07에 고친 것(WalletConnect 준비 카드, 설정 지도 줄, 무장 안내, 알림 색, Zcash 탭, HyperCore 배지)은 투어에서 그대로 동작했다.
+
+## 2. 고친 것 (전 → 후)
+
+- **U1 백업 확인 다시 묻기**(보안 관련 — 강화): vault가 틀린 답의 위치를 그 복구 단어에 대해 성공·잠금(다시 잠금 해제)까지 기억하고(`Vault::retry`), 다음 challenge가 **새 id로 같은 위치 4개**를 묻는다. 새 YubiKey 지갑의 메모리 속 단어(`PendingEnrol::retry`)도 같다. 결과는 여전히 네 단어 전체의 일치/불일치뿐이라 위치별 맞음/틀림을 알 수 없고(단어별 오라클 없음), 횟수 제한 없음도 그대로다. T-BACKUP-FAIL: "입력한 단어가 맞지 않습니다. 새 위치로 다시 확인합니다." → "입력한 단어 중 종이와 다른 것이 있습니다. 같은 위치(3·9·16·22번째)를 다시 묻습니다." + 단어를 다시 볼 수 있는 흐름이면 "이 창을 닫고 복구 단어를 다시 보면서 이 네 단어를 종이와 대조해 고치세요", 새 YubiKey 지갑이면(창을 닫으면 단어가 지워짐) "종이의 이 네 단어를 다시 확인하세요…처음부터 다시 만드세요". 시험: `vault::tests::backup_confirmation`에 "틀린 뒤 같은 위치" 단언. spec/02 §8.3, spec/04 §2.3·T-BACKUP-FAIL·UI-M3-07, spec/09 M3-4, spec/10.
+- **U2 숨긴 계정 되돌리기**(보안 관련 — 숨기면 grant에서 빼는 규칙 그대로): EVM·Solana "내 계정" 카드 끝(계정이 모두 숨겨진 YubiKey 지갑이면 T-NO-ACCOUNTS 카드 끝)에 `숨긴 계정 n개 보기 ▸` → 행마다 흐린 "{라벨} · {출처} · 숨김", 전체 주소, 마지막으로 읽은 잔액, `다시 보이기`(meta `hidden = false`만; 사이트 연결은 되살리지 않고 "dApp에서 다시 연결하세요"). 숨기면 정보 띠 "'{라벨}'을(를) 숨겼습니다. 이 계정의 사이트 연결도 해제했습니다. '내 계정' 아래 '숨긴 계정'에서 다시 볼 수 있습니다." 모듈 `app_hidden`(명령 ID 16,200–16,589, `ui::command_ids`에 등록). 시험 `hidden_account_comes_back_with_show_again`.
+- **U3 YubiKey 지갑 → S08**: `yk_close_wizard`가 새 지갑이면 메인 대신 S08로 간다. 완료 띠 "YubiKey 지갑을 만들었습니다 (YubiKey #n)." + "이 지갑의 백업은 방금 적은 복구 단어 24개입니다…", 복구 단어 없이 연결했으면 "YubiKey를 연결했습니다 (YubiKey #n)." + "…카드가 그 키의 유일한 사본일 수 있습니다…". 그 뒤는 다른 갈래와 같은 RPC 카드·확장 링크·`지갑 열기`. PIN 설정 강제(공장 PIN)는 결과 화면에서 먼저 끝내는 그대로. 기존 YubiKey 시험 두 개가 S08 → `지갑 열기` → 메인을 확인한다. 35(새 장면).
+- **U4 EVM 토큰 보내기**(표시만): 토큰 카드의 보이는 행에 `{기호} 보내기`(잔액 > 0, 엔드포인트, `Unlocked`일 때 — 그 토큰을 고른 S11; 명령 ID 3,440–3,559), S11 자산 라디오 `USDC · 125.5`/`· 잔액 모름`과 토큰을 고르면 "보유 125.5 USDC (블록 N 기준)", 선택 계정 카드 큰 잔액 아래 "토큰: 125.5 USDC · 0.3 WETH (아래 토큰 카드)". 검사·검토·승인은 그대로. 11, 31.
+- **U5 승인 창 상태 줄**(보안 관련 — 표시만): 상태 줄 끝 한 문장(`app_approval::next_step`): 연결 창에서 고른 계정이 없으면 "연결할 계정을 하나 이상 고르세요", 확인 체크가 필요하고 비었으면 "경고를 읽고 아래 '위 경고를 모두 확인했습니다'에 체크하세요", 2초 전에 놓았으면(다음 누름까지) "2초가 되기 전에 놓았습니다 — 다시 2초 동안 누르세요", 무장 대기는 11-07 문구, 고위험이고 무장되었으면 "'승인'을 2초 동안 누르고 있으세요". `can_approve`·확인 체크·2초 누르기·누름 간격·Enter 무시는 그대로(새 판정 `ApprovalSession::ack_missing`·`connect_empty`는 읽기만). 시험 `ack_missing_is_the_users_step`. 13.
+- **U6 설정 변조 띠**(보안 관련 — 강화): 다른 값마다 쉬운 말 한 줄(지금 값 → 파일 값, JSON 키는 괄호): 자동 잠금, 바뀐 체인별 수수료 상한, Bitcoin 주소 조회 서버("파일 값을 쓰면 주소 조회가 그 서버로 갑니다"), 새 사용자 체인("앱이 제네시스를 고정한 적 없음"). 주 버튼이 `앱에 저장된 값으로 되돌리기`, `파일 값 사용…`은 같은 목록을 보이는 확인 오버레이(`Confirm::SettingsFile`, "이 PC에서 직접 바꾼 경우에만 고르세요")를 거친다. 결정 전 기본(앱 값 사용)과 스냅샷 규칙은 그대로. 시험 `settings_changed_outside_the_app_banner_accept_and_restore`(줄 문구, 확인 오버레이, 확인 전에는 앱 값 유지).
+- **U7 서명이 막힐 계정 미리 알리기**(보안 관련 — 앞당기기만): 추가 복구 단어가 백업 확인 전이면 EVM·Solana 선택 계정 카드에 주의 띠 "'{라벨}' 백업 확인 전 — 이 계정은 받기만 되고, 보내기·서명은 백업 확인 뒤에 됩니다." + `지금 백업 확인`(목록의 `백업 확인`과 같은 W03 → W08 → W10), 받기 화면의 위험 띠 아래에도 같은 버튼. 서명하는 순간 vault의 거부(E-VLT-009)는 마지막 방어선으로 그대로.
+- **U8 백업 현황**(상태만): 설정 → 보안 "복구 단어·개인키" 카드가 복구 단어가 둘 이상이거나 가져온 키·YubiKey가 있으면 "백업 현황 — 이 지갑을 다시 열려면" — 복구 단어마다 "{라벨} · n단어 [+ passphrase] [(첫 복구 단어)] · 백업 확인됨 ✓/백업 확인 전 ⚠", "가져온 개인키 n개 — …각각 원래 개인키가 백업", "YubiKey n개 — 복구 단어 없이 연결한 키는 그 카드…가 유일한 사본 ⚠"(또는 "…복구 단어로 다시 만들 수 있습니다"), "이 PC의 비밀번호는 백업이 아닙니다". 버튼 `첫 복구 단어 보기`·`개인키 보기`·`복구 단어 관리 ▸`. T-RESET-INTRO·T-RESET-YUBIKEY에 "여러 개면 각각"과 "'YubiKey 연결하기 (복구 단어 없이)'로 다시 연결". 44.
+- **U9 연결 창 기본 계정**(보안 관련 — 승인은 그대로 직접): 새 사이트는 메인에서 고른 EVM 계정을 기본 체크(목록에 없으면 첫 계정; 기존 grant는 그 계정), 목록 아래 "사이트가 기본으로 쓰는 계정: {라벨} (체크한 계정 중 목록의 첫 계정)". spec/05 §4.2. 26.
+- **U10 받기 화면**(위험 표시는 더하기만): 세 체인 모두 "제목(배지 + `받기 — {네트워크}`) → 띠 → 전체 주소 → `주소 복사`(Bitcoin HD는 `새 주소`) → 복사 안내 → (EVM) 같은 주소 안내 → QR 종류·QR → 경로". 기본 EVM 메인넷·Solana mainnet이면 S11·S12에도 T-MAINNET 띠(Solana는 S10에도; Bitcoin은 원래 모든 화면). 복사 동작·클립보드 규칙·문구는 그대로. 14, 34.
+- **U11 EVM 활동**: 행에 "받는 주소 {4자 묶음 전체}"(ERC-20은 해석한 받는 사람)와 표시 전용 " → 주소록: {이름}"/" → 내 계정: {라벨}"(활동 주소에 복사·선택 버튼을 두지 않는 규칙은 그대로), `nonce`는 진행 중인 행에만, 최근 10행 + `이전 활동 n건 더 보기 ▸`(실행 중에만). 빈 활동 카드(EVM·Solana·Bitcoin)에 "받은 입금은 이 목록에 나오지 않습니다. 선택 계정의 잔액(새로고침)으로 확인하세요."
+- **U12 "참고" 구역**(보안 관련 — 그리기만): 정보 등급 줄은 "확인할 경고"(차단·고위험·주의, 태그·색·체크 그대로) 뒤 별도 구역 "참고"에. 정보 줄만 있으면 "참고"만. 모든 줄은 그대로 보이고 접지 않는다(digest·등급·`ack_required` 무변경). 27, 28, 30.
+- **U13 요약 문장**(digest 밖): SIWE로 해석된 `personal_sign`은 "{네트워크}에서 {SIWE 도메인} 사이트 로그인(Sign-In with Ethereum) 메시지에 서명합니다. 거래를 보내지는 않습니다.", 알려진 typed data는 "{네트워크}에서 '{제목 동작}'에 서명합니다(EIP-712). 서명만으로 권한이나 자산이 넘어갈 수 있으니 아래 경고와 내용을 확인하세요." 알 수 없는 형식은 이전 문장.
+- **U14 WalletConnect**: 주 버튼 `클립보드에서 연결` — 누를 때만 클립보드를 읽어 `wc:` 텍스트면 바로 연결, 아니면 기존 클립보드 이미지 QR 해독. 클립보드에 쓰지 않고 내용은 로그에 남기지 않는다(`clipboard.link source=text`만). URI 칸은 두 번째 방법, 이미지 파일 경로는 `다른 방법 (이미지 파일) ▸` 뒤. `모든 WalletConnect 세션 끊기`는 확인 오버레이(`Confirm::WcDisconnectAll`). 연결 승인은 그대로 Verify 표시가 있는 연결 창. spec/13 §6.
+- **U15 호환 모드 안내**: S23 설치 5단계("툴바 아이콘에서 '연결됨'이 보이면 끝") + T-EXT-COMPAT(지갑 목록에 Your Wallet이 없으면 확장 아이콘 → 'MetaMask처럼 보이기'·'Phantom처럼'·'UniSat'·'Xverse처럼' → 탭 새로고침, 실제 같은 종류 확장은 끔), 줄인 글을 S13 빈 카드와 설정 → 브라우저 확장 카드에. 45, 50.
+- **U16 첫 화면 두 묶음**: "새로 시작합니다"(`새 지갑 만들기` + T-FIRST-1 셋째 문장, `YubiKey에 보관하는 새 지갑`) / "이미 쓰던 지갑이 있습니다"(`복구 단어로 가져오기`·`개인키로 시작하기`·`YubiKey 연결하기 (복구 단어 없이)` 한 줄 + 각각 한 줄 설명). 다섯 입구가 기본 창 첫 화면에 다 보인다. T-LEFTOVER면 다섯 모두 끔. 01.
+- **U17 RPC 없음**: EVM·Solana 큰 잔액 도움말 "이 네트워크({이름})의 RPC 주소가 아직 없어 잔액을 읽을 수 없습니다.", 눌러도 실패하는 `새로고침` 대신 보조 버튼 `RPC 설정하기`; Solana·Bitcoin의 `설정에서 URL 입력` → `RPC 설정하기`(네 탭 같은 이름).
+- **U18 설정 탭 한 줄**: 순서 `보안·복구 단어·YubiKey·네트워크(RPC)·EVM 체인·Solana·Bitcoin·AI 설명·브라우저·정보`, `브라우저·진단·정보` → `브라우저·정보`, 탭마다 고정 폭(버튼 최소 88 DIP·여백 36 DIP로는 순서만 바꿔도 넘쳤다). 명령 id는 그대로. 보안 지도 줄에 "복구 단어별 보기·백업 확인은 '복구 단어' 탭". 17, 23, 42, 50.
+- **U19 YubiKey 카드 버튼**(보안 관련 — 이름·배치만): 일반 작업 줄(`PIN 설정 / 기본값 변경`, `슬롯 구성 바꾸기`)과 "위험한 작업" 줄(`지갑에서 기록 지우기 (카드는 그대로)`, `YubiKey의 키 지우기…`). 기록 지우기가 꺼지면 "이 지갑의 마지막 키라 기록을 지울 수 없습니다(지갑 초기화로만 가능)." 확인 문구는 이 카드에만 있는 키가 경로 모름이면 "…카드를 'YubiKey 연결하기 (복구 단어 없이)'로 다시 연결하면 돌아옵니다 — 이 카드를 잃거나 비우면 영구히 사라집니다." 확인 오버레이·W03·T-YK-KEY-LOST 흐름은 그대로. 42.
+- **U20 복구 단어 이름**: 새 기본 라벨 `복구 단어 N`(저장된 `니모닉 N`은 그대로, 둘 다 기본 라벨로 세어 번호가 겹치지 않고 하나만 남았을 때의 정리 규칙도 같다 — 이전·다음 버전과 호환). 첫 복구 단어 사실 줄 "처음 만든(가져온) 복구 단어 · 지울 수 없음", 가져오기 미리보기 주소 4자 묶음.
+- **U21 Solana 수수료**: "예상 수수료 약 0.000005 SOL (최대 … SOL) — 최종 수수료는 승인 창에서 확인합니다.", lamports·CU는 `수수료 계산 보기 (lamports·CU) ▸` 안. 상한(B01–B04)과 승인 창 최종 수수료는 그대로. 20.
+
+## 3. 남긴 것과 이유·대안
+
+- **D1 첫 실행에서 QuickNode 주소 한 번 붙여넣기로 RPC 연결·자동 테스트**(높음/중간): 자격 정보 저장 → 없는 주소만 생성 → 주요 네트워크 자동 테스트까지 한 화면에서 하는 새 흐름이라 RPC 작업자·`begin_generate` 경로를 함께 바꿔야 한다. 이번에는 RPC 없음 문구와 버튼(U17)만 고쳤다. 대안: S08 카드 안 ES_PASSWORD 칸 하나 + `연결하기`(기존 `quicknode_input` → GENERATE(덮어쓰기 없음) → 각 `RpcJob::Test`) — 다음 변경으로 제안.
+- **D2 받기 화면 네트워크 칩·첫 시작 네트워크 묻기**(중간): 받기 화면에서 `evmChainId`를 바꾸면 메인의 선택과 승인 창 체인까지 함께 바뀌므로 칩 동작을 메인과 맞춰 따로 검토해야 한다. 이번에는 받기 제목에 네트워크·배지를 넣고(U10) 같은 주소 안내를 QR 위로 올렸다.
+- **D3 메인 "처음 할 일" 카드, 모든 EVM 체인 잔액 줄, 계정 바꾸기 접이식 목록, 카드 요약·접기(갱신 시각·Zcash 키 출처·HyperCore 한 줄)**(중간): 메인 첫 화면 배치를 크게 바꾸는 묶음이라 한꺼번에 설계하는 편이 낫다. HyperCore 접기는 11-07 D3 그대로 남김.
+- **D4 Bitcoin 보내기 폼의 수수료 미리 보기**(높음/중간): 폼을 열 때 `estimatesmartfee`·`getmempoolinfo`를 읽는 새 RPC 작업과 검토 전 계획(승인 요청 없음)이 필요하다. Solana만 SOL 표기로 고쳤다(U21).
+- **D5 W11 PIN 창의 카드 연결 상태·터치 진행·틀린 PIN 같은 창 오류**(높음/중간, 보안 관련): 키 작업자의 입력별 진행 이벤트와 창 수명(제출 뒤에도 열어 둠)을 바꾸는 변경이라 PIN 버퍼 이동·120초 기한·캡처 제외를 함께 다시 확인해야 한다. 공장 PIN 상태의 앞당긴 안내(U7의 YubiKey 쪽)도 같은 이유로 남겼다 — 지금은 카드 단계의 T_CARD_FACTORY_PIN과 `PIN 설정` 띠.
+- **D6 이미 등록한 카드에 Solana 슬롯 추가, 잠긴 PIN 풀기(RESET RETRY COUNTER), 등록 마법사 조합 라디오·관리 키 자동, 카드 별명**(높음–중간, 보안 관련·큰 노력): 카드에 쓰는 새 APDU 흐름이라 에뮬레이터 시험과 함께 별도 변경으로. 대안 문구: 잠김 오류가 가리키는 기능이 없으니 다음 변경 전까지는 "YubiKey 비우기 → 애플릿 초기화(키 삭제)"가 유일한 앱 안 경로임을 확인 문구가 이미 말한다.
+- **D7 사이트 기본 계정 바꾸기·계정 빼기(S13)**(U9의 (b)): `accountsChanged` 순서 보내기와 뺀 계정의 대기 서명 4100 처리를 함께 바꾸는 변경이라 남겼다. 이번에는 연결 창의 기본 선택과 안내(U9 a)만.
+- **D8 주 창 크기·위치 기억, 메인 스크롤 복원, Esc·PgUp/PgDn·F5, 화면 밖 컨트롤로 Tab**(중간/낮음): yw-win에 `GetWindowPlacement`/`SetWindowPlacement` 래퍼(unsafe 크레이트)와 메시지 루프 변경이 필요하다. 승인 창 Esc = 거부 규칙은 그대로 두는 조건으로 다음 변경에 제안.
+- **D9 RPC 용어 통일(E-KEY-005 문구 변경)·상태 줄 형식, RPC 오류 한 줄 + 그 네트워크 줄로 스크롤, 네트워크별 RPC 목록 요약·`모두 테스트`, 진단 카드, 수수료 상한 현황·E-TX-001 이동**: §7 문구는 코드와 함께 고정(11-07 D6)이고 나머지는 설정 화면 배치 변경이라 남겼다. 링크 이름은 `RPC 설정하기`로 통일했다(U17).
+- **D10 사용자 체인 칩 줄이기, 설정 구역 7개로 묶기(체인 탭)**: 칩 문구의 사용자 체인 표시는 기본 체인 흉내를 막는 보안 표시라 줄이는 방식을 따로 검토해야 한다. 탭 넘침은 U18로 풀었다.
+- **D11 확장 팝업 '이 탭 새로고침'·접힌 설명, install.ps1의 "지금 실행할까요?"**: JS 팝업·설치 스크립트와 그 시험(popup-preview·install.test)을 함께 바꾸는 변경이라 남겼다. 앱 안 안내(U15)로 대신했다.
+- **D12 승인 창을 포인터가 있는 모니터에**(낮음, 보안 관련): 창 배치는 클릭 관통·전경 규칙과 엮여 있어 남겼다.
+- **D13 백업 확인 창(W10)의 `복구 단어 다시 보기` 버튼·'n/8' 글자 수 대신 '목록에 있는 단어'**: 비밀 창(W08)을 W10에서 다시 여는 흐름이라 캡처 제외·2초 누르기 재확인이 필요하다. 이번에는 같은 위치 다시 묻기와 "창을 닫고 다시 보세요" 안내(U1)로 대신했다.
+- **D14 가져오기 첫 주소 확인에 Solana·Bitcoin 주소**(보안 관련): 키 작업자의 미리보기 파생을 늘리는 변경이라 버퍼 소거·passphrase 불일치 흐름과 함께 검토해야 한다.
+- **D15 EVM 외 활동 10행 접기(Solana·Bitcoin·Zcash)**: EVM만 바꿨다(행 버튼 id가 행 번호인 구조는 같아 같은 방식으로 옮기면 된다).
+
+## 4. 바뀐 화면 (docs/screenshots)
+
+다시 찍음: 01(첫 화면 두 묶음), 11(자산 라디오 보유량 — 투어는 네트워크 없이 `잔액 모름`), 13(고위험 상태 줄 "…체크하세요"), 14·34(주소·`주소 복사`가 QR 앞), 17·23·42·50(탭 한 줄·`브라우저·정보`; 42는 YubiKey 카드 아래 위험 작업 줄이 화면 밖), 20(Solana 수수료 SOL), 26(연결 창 기본 계정 줄), 27·28·30("참고" 구역), 31(`USDC 보내기`), 44(초기화 문구), 45(5단계·호환 모드 안내). 새로: 35-yubikey-done(YubiKey 지갑 S08 — 첫 화면 스크롤 장면 35-welcome-yubikey는 첫 화면이 한 화면에 들어가 없앴다). 이 PC의 투어에서 02·03·04·08·09 등 몇 장은 이번 변경과 무관하게 글꼴 다듬기 차이로 픽셀이 조금 달랐지만 내용이 같아 다시 넣지 않았다.
+
+## 5. 시험
+
+필요한 것만 더하거나 고쳤다: `vault::tests::backup_confirmation`(같은 위치), `app::tests::hidden_account_comes_back_with_show_again`(새), `approval_interaction::ack_missing_is_the_users_step`(새), `settings_changed_outside_the_app_banner_accept_and_restore`(줄 문구·확인 오버레이), YubiKey 지갑 두 시험(S08 → `지갑 열기`), `send_picker_tucks_hidden_tokens_away`(라디오 라벨), 명령 ID 표(`ui::command_ids` — 숨긴 계정 16,200–16,589, 토큰 보내기 3,440–3,559, `이전 활동` 3,560, WalletConnect 16,009–16,010).

diff --git a/README.md b/README.md
@@ -65,7 +65,7 @@ native host 등록은 `install.cmd`가 한다(spec/05 §9). 확장 소스를 고
 | [docs/recovery-guide.ko.md](docs/recovery-guide.ko.md) | 백업·복구 안내 |
 | [docs/acceptance/](docs/acceptance/) | 체크리스트·라이브 확인 기록 |
 | [docs/screenshots/](docs/screenshots/) | 화면 투어(주요 화면·승인 창·확장 팝업, 시험용 값) |
-| [docs/ux-review-20261107.md](docs/ux-review-20261107.md) | 최근 UI/UX 검토(고친 것·남긴 것; 이전 [10-31](docs/ux-review-20261031.md)) |
+| [docs/ux-review-20261108.md](docs/ux-review-20261108.md) | 최근 UI/UX 검토(고친 것·남긴 것; 이전 [11-07](docs/ux-review-20261107.md), [10-31](docs/ux-review-20261031.md)) |
 | [docs/security-review-20261101.md](docs/security-review-20261101.md) | 보안 검토(발견·권고 순서·스펙 편차) |
 | [docs/android-feasibility-20261107.md](docs/android-feasibility-20261107.md) | Android 이식 타당성 검토(같은 보안 수준의 조건·맞출 수 없는 것·단계 계획, 코드 변경 없음) |
 
